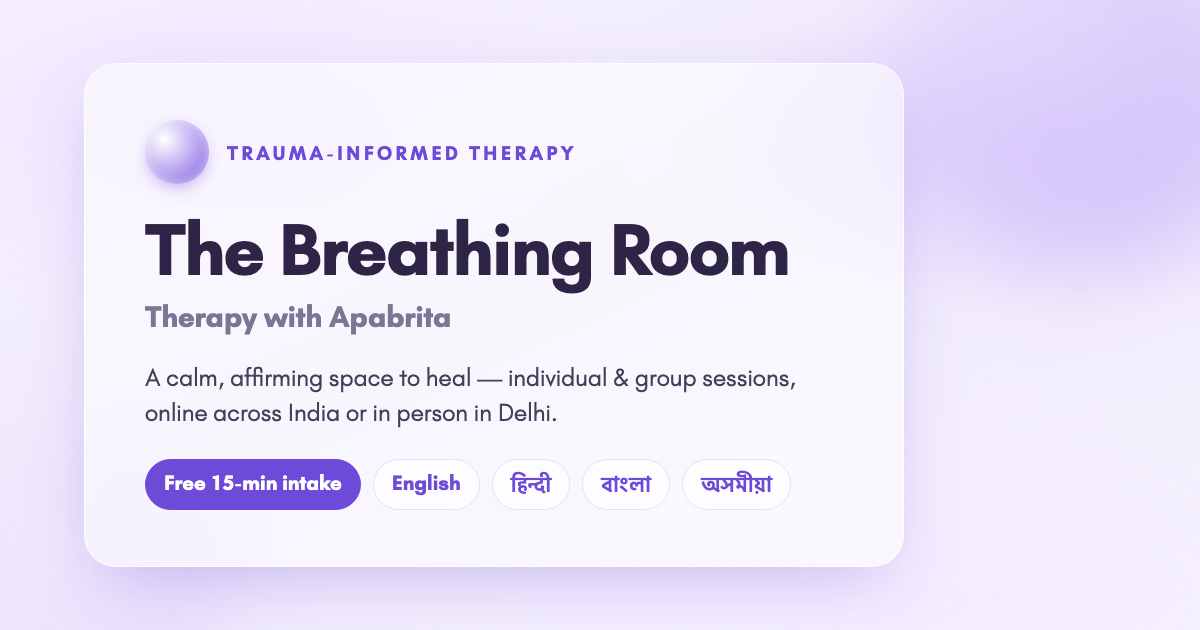
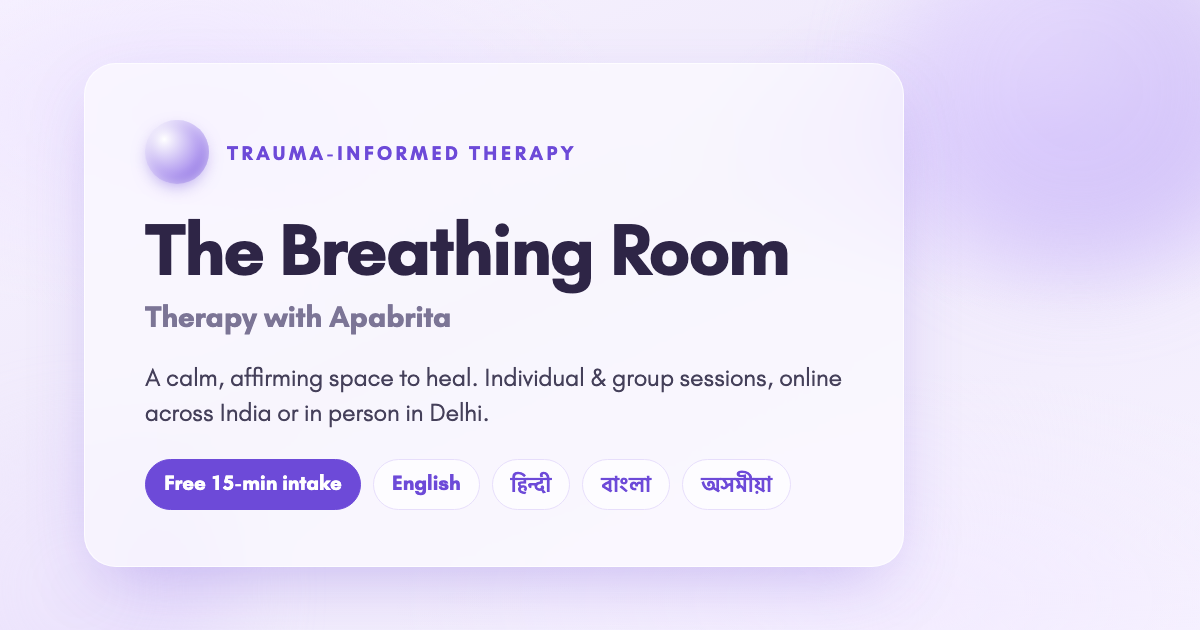
Remove em dashes (the AI tell); tidy punctuation
- Replace every em dash across the site with natural punctuation: commas,
  periods, and a colon for the brand ('The Breathing Room: Therapy with Apabrita')
- Certifications use 'Name, Issuer'; fee/credential lines reflowed
- Drop the one en-dash compound (therapist-client)
- Fix a missed first-person ('areas I work with most' -> 'we'); regenerate og-image

Changed region(s): [[0.1233, 0.573, 0.7092, 0.6937]]

diff --git a/about.html b/about.html
@@ -98,16 +98,16 @@
           <h3>Certifications &amp; training</h3>
           <div class="grid grid-2" style="gap:.55rem 1.6rem;margin-top:.8rem;">
             <ul class="offer" style="padding:0;gap:.6rem;margin:0;">
-              <li><b>Drama &amp; Movement Therapy</b> — VIMHANS Institute of Mental Health &amp; Neuro-Allied Sciences <span style="color:var(--muted);font-size:.85rem;">(Feb 2026)</span></li>
-              <li><b>Cognitive Behavioural Therapy (CBT), Level 1</b> — Aarambh Mental Wellness <span style="color:var(--muted);font-size:.85rem;">(Jul 2024)</span></li>
-              <li><b>Trauma Counselling</b> — Cognizavest</li>
-              <li><b>Research Ethics</b> — Global Health Training Centre <span style="color:var(--muted);font-size:.85rem;">(Mar 2024)</span></li>
+              <li><b>Drama &amp; Movement Therapy</b>, VIMHANS Institute of Mental Health &amp; Neuro-Allied Sciences <span style="color:var(--muted);font-size:.85rem;">(Feb 2026)</span></li>
+              <li><b>Cognitive Behavioural Therapy (CBT), Level 1</b>, Aarambh Mental Wellness <span style="color:var(--muted);font-size:.85rem;">(Jul 2024)</span></li>
+              <li><b>Trauma Counselling</b>, Cognizavest</li>
+              <li><b>Research Ethics</b>, Global Health Training Centre <span style="color:var(--muted);font-size:.85rem;">(Mar 2024)</span></li>
             </ul>
             <ul class="offer" style="padding:0;gap:.6rem;margin:0;">
-              <li><b>Informed Consent with Children</b> — NIHR <span style="color:var(--muted);font-size:.85rem;">(Mar 2024)</span></li>
-              <li><b>Informed Consent with Different Communities</b> — NIHR</li>
-              <li><b>Research Practice in Clinical Settings</b> — NIHR</li>
-              <li><b>Good Clinical Practice (GCP)</b> — NIHR</li>
+              <li><b>Informed Consent with Children</b>, NIHR <span style="color:var(--muted);font-size:.85rem;">(Mar 2024)</span></li>
+              <li><b>Informed Consent with Different Communities</b>, NIHR</li>
+              <li><b>Research Practice in Clinical Settings</b>, NIHR</li>
+              <li><b>Good Clinical Practice (GCP)</b>, NIHR</li>
             </ul>
           </div>
         </div>
@@ -146,7 +146,7 @@
     <div class="container footer-grid">
       <div class="footer-brand">
         <a class="brand" href="index.html" style="color:#fff"><span class="mark" aria-hidden="true"></span><span style="color:#fff">The Breathing Room<small style="color:#a99fce">Therapy with Apabrita</small></span></a>
-        <p>Trauma-informed therapy, online or in person in Delhi, for individuals and groups — a calm, affirming space to feel like yourself again.</p>
+        <p>Trauma-informed therapy, online or in person in Delhi, for individuals and groups. A calm, affirming space to feel like yourself again.</p>
         <div class="crisis"><b>In crisis or unsafe right now?</b> Therapy isn&rsquo;t emergency care. In India call <b>Tele-MANAS 14416</b> (24×7) or <b>iCall [phone redacted]</b>. If life is in danger, call <b>112</b>.</div>
       </div>
       <div><h4>Explore</h4><ul><li><a href="index.html">Home</a></li><li><a href="about.html">About Apabrita</a></li><li><a href="services.html">How we help</a></li><li><a href="index.html#fees">Fees</a></li><li><a href="contact.html">Contact &amp; booking</a></li><li><a href="privacy.html">Privacy &amp; terms</a></li></ul></div>

diff --git a/index.html b/index.html
@@ -4,13 +4,13 @@
   <meta charset="UTF-8" />
   <meta name="viewport" content="width=device-width, initial-scale=1.0" />
   <title>The Breathing Room | Trauma-Informed Online Therapy with Apabrita | India</title>
-  <meta name="description" content="Warm, trauma-informed therapy — online or in person in Delhi — with Apabrita, a narrative humanistic psychologist in India. Individual & group sessions for trauma, anxiety, relationships & more. Free 15-minute intake call. Sessions in English, हिन्दी, বাংলা & অসমীয়া." />
+  <meta name="description" content="Warm, trauma-informed therapy, online or in person in Delhi, with Apabrita, a narrative humanistic psychologist in India. Individual & group sessions for trauma, anxiety, relationships & more. Free 15-minute intake call. Sessions in English, हिन्दी, বাংলা & অসমীয়া." />
   <meta name="theme-color" content="#f7f5fc" />
   <link rel="canonical" href="https://elsaicequeen.github.io/apa-website/" />
 
   <!-- Open Graph / Twitter -->
   <meta property="og:type" content="website" />
-  <meta property="og:title" content="The Breathing Room — Therapy with Apabrita" />
+  <meta property="og:title" content="The Breathing Room: Therapy with Apabrita" />
   <meta property="og:description" content="A calm, affirming space to heal. Online individual & group therapy. Free 15-minute intake call. English · हिन्दी · বাংলা · অসমীয়া." />
   <meta property="og:image" content="https://elsaicequeen.github.io/apa-website/assets/img/og-image.png" />
   <meta property="og:image:width" content="1200" />
@@ -33,7 +33,7 @@
     "@context": "https://schema.org",
     "@type": "ProfessionalService",
     "@id": "https://elsaicequeen.github.io/apa-website/#practice",
-    "name": "The Breathing Room — Therapy with Apabrita",
+    "name": "The Breathing Room: Therapy with Apabrita",
     "description": "Trauma-informed online therapy for individuals and groups. Specialising in trauma, abuse, intimate partner violence, anxiety, depression and women's mental health.",
     "url": "https://elsaicequeen.github.io/apa-website/",
     "image": "https://elsaicequeen.github.io/apa-website/assets/img/og-image.png",
@@ -190,7 +190,7 @@
         <div class="grid grid-2 reveal">
           <article class="card glass">
             <h3>Individual</h3>
-            <p>One-to-one therapy in a private, confidential space that moves entirely at your pace — online or in person in Delhi. Trauma-informed, collaborative and affirming.</p>
+            <p>One-to-one therapy in a private, confidential space that moves entirely at your pace, online or in person in Delhi. Trauma-informed, collaborative and affirming.</p>
           </article>
           <article class="card glass">
             <h3>Group</h3>
@@ -301,7 +301,7 @@
         <div class="section-head center reveal">
           <p class="eyebrow">Fees &amp; access</p>
           <h2>Simple and no-pressure</h2>
-          <p class="lead">The first 15-minute intake call is always free. Fees for ongoing sessions are discussed there &mdash; with a few sliding-scale spots that can be arranged on a need basis.</p>
+          <p class="lead">The first 15-minute intake call is always free. Fees for ongoing sessions are discussed there, with a few sliding-scale spots that can be arranged on a need basis.</p>
         </div>
         <p class="center reveal" style="margin-top:.4rem;color:var(--muted);font-size:.95rem;">
           Cost a worry? Please reach out anyway and let&rsquo;s talk about what&rsquo;s possible.
@@ -356,7 +356,7 @@
           <span class="mark" aria-hidden="true"></span>
           <span style="color:#fff">The Breathing Room<small style="color:#a99fce">Therapy with Apabrita</small></span>
         </a>
-        <p>Trauma-informed therapy, online or in person in Delhi, for individuals and groups — a calm, affirming space to feel like yourself again.</p>
+        <p>Trauma-informed therapy, online or in person in Delhi, for individuals and groups. A calm, affirming space to feel like yourself again.</p>
         <div class="crisis">
           <b>In crisis or unsafe right now?</b> Therapy isn&rsquo;t emergency care. In India you can call <b>Tele-MANAS 14416</b> (24×7) or <b>iCall [phone redacted]</b>. If life is in danger, call <b>112</b>.
         </div>

diff --git a/services.html b/services.html
@@ -43,7 +43,7 @@
         <span class="flourish" aria-hidden="true"><i></i><i></i><i></i></span>
         <p class="eyebrow">How we help</p>
         <h1>Support that meets you where you are</h1>
-        <p class="lead">Whatever brought you here, the goal is the same: to help you feel safer, steadier and more like yourself. Here are some of the areas I work with most.</p>
+        <p class="lead">Whatever brought you here, the goal is the same: to help you feel safer, steadier and more like yourself. Here are some of the areas we work with most.</p>
       </div>
     </section>
 
@@ -71,11 +71,11 @@
         <div class="grid grid-2 reveal">
           <article class="card glass">
             <h3>Individual</h3>
-            <p>Private, focused, and entirely about you — online or in person in Delhi. Personalised, trauma-informed and at your own pace.</p>
+            <p>Private, focused, and entirely about you, online or in person in Delhi. Personalised, trauma-informed and at your own pace.</p>
           </article>
           <article class="card glass">
             <h3>Group</h3>
-            <p>A small, facilitated group for connection and shared healing — safe, gently structured, and offered in limited-spot cohorts.</p>
+            <p>A small, facilitated group for connection and shared healing. Safe, gently structured, and offered in limited-spot cohorts.</p>
           </article>
         </div>
         <div class="center reveal" style="margin-top:1.8rem;">
@@ -100,7 +100,7 @@
     <div class="container footer-grid">
       <div class="footer-brand">
         <a class="brand" href="index.html" style="color:#fff"><span class="mark" aria-hidden="true"></span><span style="color:#fff">The Breathing Room<small style="color:#a99fce">Therapy with Apabrita</small></span></a>
-        <p>Trauma-informed therapy, online or in person in Delhi, for individuals and groups — a calm, affirming space to feel like yourself again.</p>
+        <p>Trauma-informed therapy, online or in person in Delhi, for individuals and groups. A calm, affirming space to feel like yourself again.</p>
         <div class="crisis"><b>In crisis or unsafe right now?</b> Therapy isn&rsquo;t emergency care. In India call <b>Tele-MANAS 14416</b> (24×7) or <b>iCall [phone redacted]</b>. If life is in danger, call <b>112</b>.</div>
       </div>
       <div><h4>Explore</h4><ul><li><a href="index.html">Home</a></li><li><a href="about.html">About Apabrita</a></li><li><a href="services.html">How we help</a></li><li><a href="index.html#fees">Fees</a></li><li><a href="contact.html">Contact &amp; booking</a></li><li><a href="privacy.html">Privacy &amp; terms</a></li></ul></div>

diff --git a/contact.html b/contact.html
@@ -51,11 +51,11 @@
         <!-- Booking column: calendar first (primary), other ways below -->
         <div class="reveal">
           <h3 id="book" style="margin:0 0 .7rem;font-size:1.15rem;color:var(--plum);scroll-margin-top:90px;">Pick a time that suits you</h3>
-          <!-- Calendly inline embed — main.js lazy-loads the widget into this div on scroll. -->
+          <!-- Calendly inline embed; main.js lazy-loads the widget into this div on scroll. -->
           <div class="calendly-wrap glass" data-calendly="https://calendly.com/apabrita907">
             <div style="padding:2rem;text-align:center;color:var(--muted);">
               <p><b style="color:var(--plum);">Loading the calendar&hellip;</b></p>
-              <p class="form-note" style="margin-top:.4rem;">If it doesn&rsquo;t appear, message on WhatsApp or fill the intake form below, and we&rsquo;ll find a time together &mdash; including across time zones.</p>
+              <p class="form-note" style="margin-top:.4rem;">If it doesn&rsquo;t appear, message on WhatsApp or fill the intake form below, and we&rsquo;ll find a time together, including across time zones.</p>
             </div>
           </div>
 
@@ -111,7 +111,7 @@
     <div class="container footer-grid">
       <div class="footer-brand">
         <a class="brand" href="index.html" style="color:#fff"><span class="mark" aria-hidden="true"></span><span style="color:#fff">The Breathing Room<small style="color:#a99fce">Therapy with Apabrita</small></span></a>
-        <p>Trauma-informed therapy, online or in person in Delhi, for individuals and groups — a calm, affirming space to feel like yourself again.</p>
+        <p>Trauma-informed therapy, online or in person in Delhi, for individuals and groups. A calm, affirming space to feel like yourself again.</p>
         <div class="crisis"><b>In crisis or unsafe right now?</b> Therapy isn&rsquo;t emergency care. In India call <b>Tele-MANAS 14416</b> (24×7) or <b>iCall [phone redacted]</b>. If life is in danger, call <b>112</b>.</div>
       </div>
       <div><h4>Explore</h4><ul><li><a href="index.html">Home</a></li><li><a href="about.html">About Apabrita</a></li><li><a href="services.html">How we help</a></li><li><a href="index.html#fees">Fees</a></li><li><a href="contact.html">Contact &amp; booking</a></li><li><a href="privacy.html">Privacy &amp; terms</a></li></ul></div>

diff --git a/privacy.html b/privacy.html
@@ -47,7 +47,7 @@
         </div>
 
         <h2 style="font-size:1.4rem;margin-top:2rem;">Who we are</h2>
-        <p>This website and practice (&ldquo;The Breathing Room &mdash; Therapy with Apabrita&rdquo;) is operated by Apabrita Das Adhikari, a narrative humanistic psychologist offering therapy online and in person in Delhi. For any privacy question, contact <a class="inline" id="p-email" href="mailto:[email redacted]">[email redacted]</a>.</p>
+        <p>This website and practice (&ldquo;The Breathing Room: Therapy with Apabrita&rdquo;) is operated by Apabrita Das Adhikari, a narrative humanistic psychologist offering therapy online and in person in Delhi. For any privacy question, contact <a class="inline" id="p-email" href="mailto:[email redacted]">[email redacted]</a>.</p>
 
         <h2 style="font-size:1.4rem;margin-top:2rem;">What we collect</h2>
         <p>We only collect information you actively provide:</p>
@@ -74,7 +74,7 @@
         <p>You can ask to <b>access, correct or delete</b> your information, or <b>withdraw consent</b>, at any time by emailing <a class="inline" href="mailto:[email redacted]">[email redacted]</a>. We&rsquo;ll respond as promptly as we reasonably can.</p>
 
         <h2 style="font-size:1.4rem;margin-top:2rem;">Terms of use</h2>
-        <p>The content on this site is for general information about the practice and is <b>not medical advice or a substitute for professional care or emergency services</b>. Nothing here creates a therapist&ndash;client relationship until we have agreed to work together. Fees and availability may change; the free intake call is offered without obligation. This site is provided &ldquo;as is&rdquo; and may occasionally be unavailable.</p>
+        <p>The content on this site is for general information about the practice and is <b>not medical advice or a substitute for professional care or emergency services</b>. Nothing here creates a therapist-client relationship until we have agreed to work together. Fees and availability may change; the free intake call is offered without obligation. This site is provided &ldquo;as is&rdquo; and may occasionally be unavailable.</p>
 
         <div class="crisis" style="background:var(--lilac-soft);border:1px solid var(--lilac);color:var(--ink);margin-top:2rem;">
           <b style="color:var(--plum);">In crisis or unsafe right now?</b> Therapy isn&rsquo;t emergency care. In India you can call <b>Tele-MANAS 14416</b> (24×7) or <b>iCall [phone redacted]</b>. If life is in danger, call <b>112</b>.
@@ -91,7 +91,7 @@
     <div class="container footer-grid">
       <div class="footer-brand">
         <a class="brand" href="index.html" style="color:#fff"><span class="mark" aria-hidden="true"></span><span style="color:#fff">The Breathing Room<small style="color:#a99fce">Therapy with Apabrita</small></span></a>
-        <p>Trauma-informed therapy, online or in person in Delhi, for individuals and groups — a calm, affirming space to feel like yourself again.</p>
+        <p>Trauma-informed therapy, online or in person in Delhi, for individuals and groups. A calm, affirming space to feel like yourself again.</p>
         <div class="crisis"><b>In crisis or unsafe right now?</b> Therapy isn&rsquo;t emergency care. In India call <b>Tele-MANAS 14416</b> (24×7) or <b>iCall [phone redacted]</b>. If life is in danger, call <b>112</b>.</div>
       </div>
       <div><h4>Explore</h4><ul><li><a href="index.html">Home</a></li><li><a href="about.html">About Apabrita</a></li><li><a href="services.html">How we help</a></li><li><a href="index.html#fees">Fees</a></li><li><a href="contact.html">Contact &amp; booking</a></li><li><a href="privacy.html">Privacy &amp; terms</a></li></ul></div>